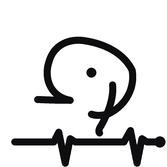
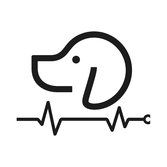
v2.9: アプリアイコンを院の正式ロゴ（犬＋心電図）に差し替え
- ロゴ原本PDF（麻酔管理アプリロゴ.pdf）を2048pxでラスタライズし、
  角丸パネル・外周を除いたロゴ本体を純白の正方形キャンバスに再配置
  （iOS側が角丸マスクを適用するため、こちらは角丸なしのフルブリード）
- apple-touch-icon 180/167/152 と icon-512（manifest用）を全て更新
- バージョンバッジ v2.9 (2026-09-04)

※ すでにホーム画面に追加済みの端末は、アイコンを一度削除して
  「ホーム画面に追加」をやり直すと新アイコンになります

Changed region(s): [[0.0599, 0.1796, 1.0, 1.0], [0.4192, 0.3293, 0.479, 0.3892]]

diff --git a/index.html b/index.html
@@ -1375,7 +1375,7 @@
         <button type="button" class="btn-settings-gear" onclick="openSettings()">⚙</button>
       </div>
     </div>
-    <p class="sub">獣医麻酔管理アシスタント <span style="font-size:12px;font-weight:700;color:var(--accent-cyan);border:1px solid var(--accent-cyan);border-radius:6px;padding:1px 8px;">v2.8 (2026-08-23)</span></p>
+    <p class="sub">獣医麻酔管理アシスタント <span style="font-size:12px;font-weight:700;color:var(--accent-cyan);border:1px solid var(--accent-cyan);border-radius:6px;padding:1px 8px;">v2.9 (2026-09-04)</span></p>
 
     <!-- 施術情報 -->
     <div class="form-section-title">施術情報</div>
